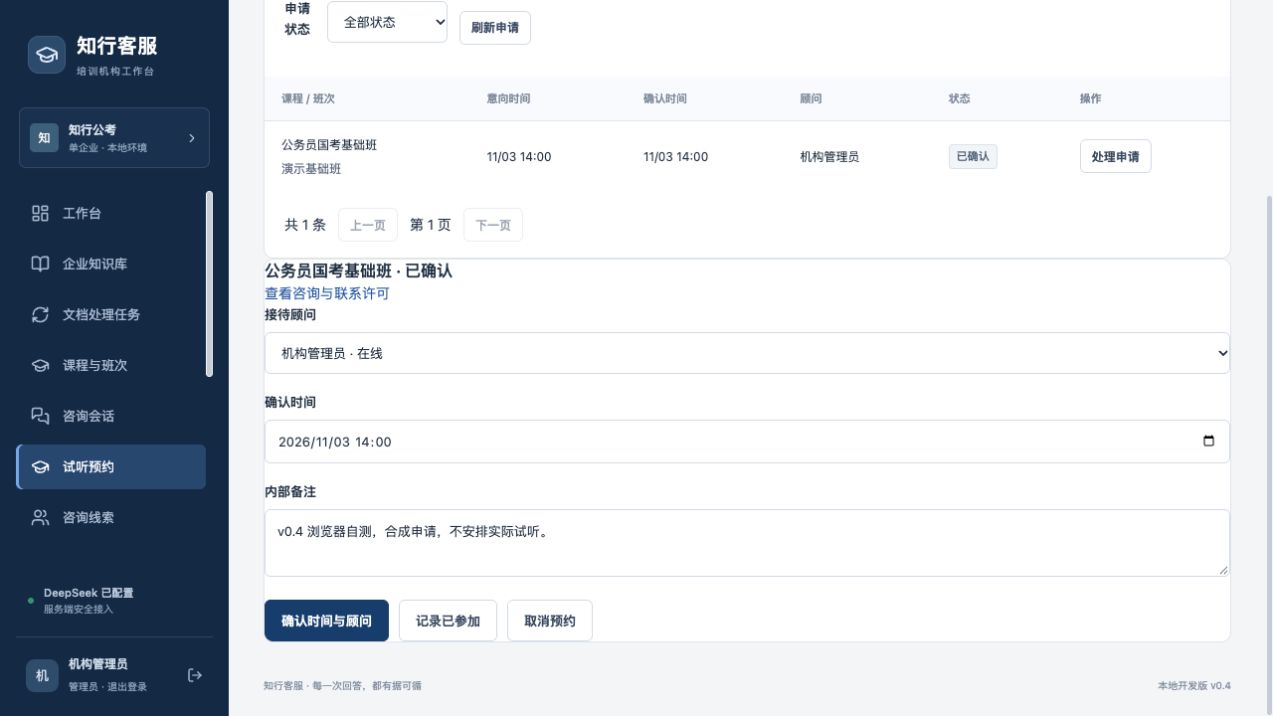
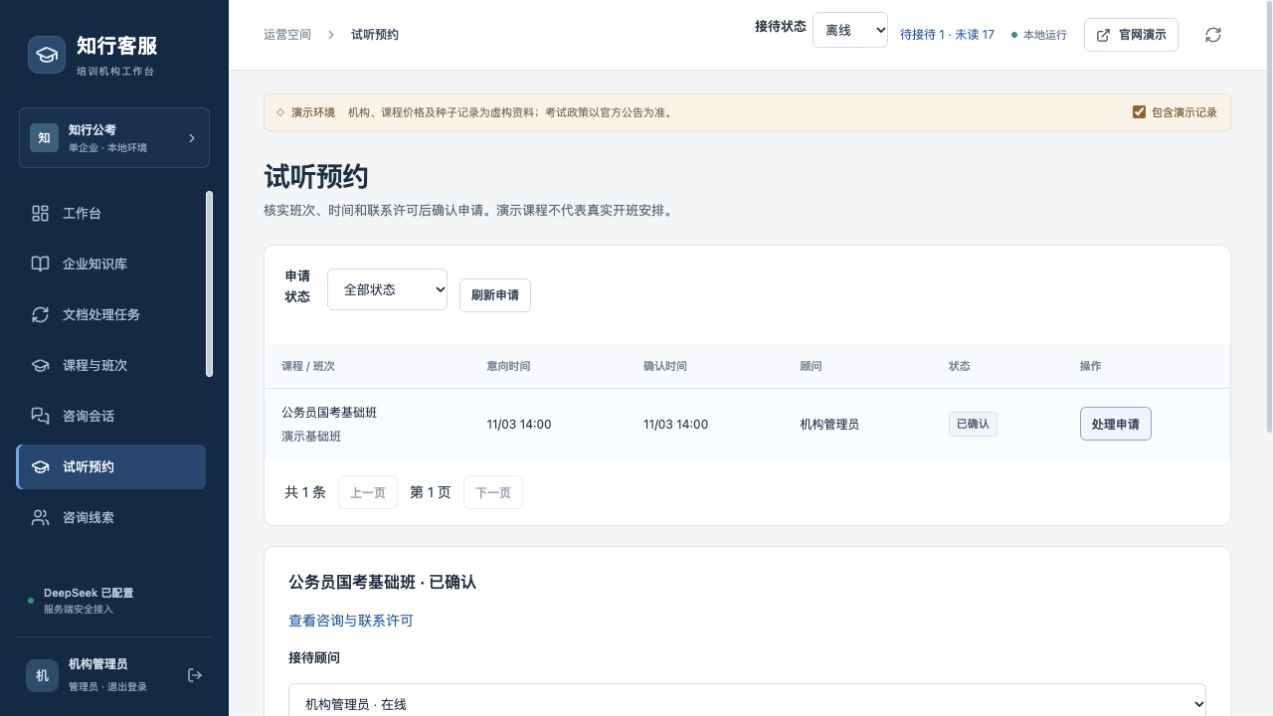
fix: preserve reception scope and validate trial and index recovery races

diff --git a/backend/tests/test_v04_review.py b/backend/tests/test_v04_review.py
@@ -1,0 +1,95 @@
+"""Regressions from the single independent v0.4 review."""
+import uuid
+from datetime import timedelta
+from sqlalchemy import select
+from app.db import SessionLocal
+from app.models import Conversation, Message, Document, Chunk, DocumentJob, now
+from test_permissions import employee
+
+def session(admin):
+    c=admin.post('/api/widget/sessions',json={}).json()
+    return c,{'Authorization':'Bearer '+c['token']}
+
+def contact(admin,c,headers):
+    return admin.post(f'/api/widget/sessions/{c["id"]}/contact',headers=headers,json={'name':'评审合成访客','contact':'review-v04@example.invalid','consent':True})
+
+def test_anonymous_advisor_keeps_scope_after_first_contact_without_overriding_existing_owner(admin):
+    person,advisor=employee(admin,'advisor');other,other_client=employee(admin,'advisor')
+    c,headers=session(admin);path='/api/admin/conversations/'+c['id']
+    assert admin.post(path+'/takeover').status_code==200
+    assert admin.post(path+'/transfer',json={'assigned_to_id':person['id']}).status_code==200
+    assert advisor.get(path).status_code==200
+    lead=contact(admin,c,headers).json()
+    result=advisor.get(path)
+    assert result.status_code==200,result.text
+    assert result.json()['lead']['owner_id']==person['id']
+    assert advisor.post(path+'/reply',json={'content':'留资后继续接待'}).status_code==200
+    assert other_client.get(path).status_code==404
+    assert admin.patch('/api/admin/leads/'+lead['id'],json={'owner_id':other['id']}).status_code==200
+    assert contact(admin,c,headers).status_code==200
+    assert admin.get('/api/admin/leads/'+lead['id']).json()['owner_id']==other['id']
+    assert advisor.get(path).status_code==404
+
+def test_chat_refreshes_status_after_authenticated_read_before_lock(admin,monkeypatch):
+    import app.chat as chat
+    original=chat.visitor;c,headers=session(admin);uid=admin.get('/api/auth/me').json()['id']
+    def takeover_between_reads(request,sid,db):
+        conv=original(request,sid,db)
+        with SessionLocal() as other:
+            current=other.get(Conversation,sid);current.status='human';current.assigned_to_id=uid;other.commit()
+        return conv
+    monkeypatch.setattr(chat,'visitor',takeover_between_reads)
+    r=admin.post(f'/api/widget/sessions/{c["id"]}/messages',headers=headers,json={'content':'请转人工','client_id':uuid.uuid4().hex})
+    assert r.status_code==200
+    with SessionLocal() as db:
+        conv=db.get(Conversation,c['id']);assert conv.status=='human'
+        assert conv.assigned_to_id==uid
+        assert not db.scalar(select(Message.id).where(Message.conversation_id==c['id'],Message.role=='assistant'))
+
+def test_ended_batches_are_hidden_and_rechecked_at_confirmation(admin):
+    course=admin.post('/api/admin/courses',json={'name':'评审试听课程','exam_type':'国考','hours':24}).json()
+    b=admin.post('/api/admin/courses/'+course['id']+'/batches',json={'name':'评审批次','sale_status':'open','ends_at':(now()+timedelta(days=10)).isoformat()}).json()
+    c,headers=session(admin);assert contact(admin,c,headers).status_code==200
+    payload={'batch_id':b['id'],'requested_at':(now()+timedelta(days=1)).isoformat(),'client_id':uuid.uuid4().hex}
+    trial=admin.post(f'/api/widget/sessions/{c["id"]}/trials',headers=headers,json=payload).json()
+    assert 'id' in trial,trial
+    assert admin.patch('/api/admin/batches/'+b['id'],json={'expected_version':b['version'],'ends_at':(now()-timedelta(days=1)).isoformat()}).status_code==200
+    assert b['id'] not in [x['id'] for x in admin.get('/api/widget/trial-batches').json()]
+    assert admin.post(f'/api/widget/sessions/{c["id"]}/trials',headers=headers,json={**payload,'client_id':uuid.uuid4().hex}).status_code==422
+    uid=admin.get('/api/auth/me').json()['id']
+    assert admin.patch('/api/admin/trials/'+trial['id'],json={'version':trial['version'],'status':'confirmed','advisor_id':uid,'scheduled_at':payload['requested_at']}).status_code==409
+
+def test_backfill_schedules_missing_seed_vectors_once_and_respects_failed_limit(admin,monkeypatch):
+    from app.jobs import backfill_index_jobs
+    from app.worker import run_one
+    from app.config import settings
+    import app.knowledge as k
+    import app.main as main
+    from fastapi.testclient import TestClient
+    import numpy as np
+    class Model:
+        def embed(self,texts):return [np.array([1.0]+[0.0]*511) for _ in texts]
+    monkeypatch.setattr(settings(),'embedding_enabled',True);monkeypatch.setattr(k,'_model',Model())
+    monkeypatch.setattr(main,'warm_embeddings',lambda:None)
+    with SessionLocal() as db:
+        published=Document(title='种子缺失向量',content='种子资料',status='published',version=1)
+        draft=Document(title='不能为草稿补索引',content='草稿',status='draft',version=0)
+        archived=Document(title='不能为下架补索引',content='下架',status='archived',version=1)
+        db.add_all([published,draft,archived]);db.flush()
+        for d in (published,draft,archived):db.add(Chunk(document_id=d.id,text=d.content,terms='种子 资料',position=0))
+        db.commit()
+        with TestClient(main.app):pass # Exercise the real startup backfill, without downloads.
+        jobs=db.scalars(select(DocumentJob).where(DocumentJob.document_id.in_([published.id,draft.id,archived.id]))).all()
+        assert len(jobs)==1 and jobs[0].document_id==published.id
+        jid=jobs[0].id
+        backfill_index_jobs(db);db.commit()
+        assert len(db.scalars(select(DocumentJob).where(DocumentJob.document_id==published.id)).all())==1
+    assert run_one(jid)
+    with SessionLocal() as db:
+        assert db.scalar(select(Chunk).where(Chunk.document_id==published.id)).embedding is not None
+        backfill_index_jobs(db);db.commit()
+        assert len(db.scalars(select(DocumentJob).where(DocumentJob.document_id==published.id)).all())==1
+        chunk=db.scalar(select(Chunk).where(Chunk.document_id==published.id));chunk.embedding=None
+        j=db.get(DocumentJob,jid);j.status='failed';j.attempts=3;db.commit()
+        backfill_index_jobs(db);db.commit()
+        assert len(db.scalars(select(DocumentJob).where(DocumentJob.document_id==published.id)).all())==1

diff --git a/scripts/verify_v04.py b/scripts/verify_v04.py
@@ -1,5 +1,5 @@
 """Real PostgreSQL regression. Operates ONLY on the disposable restored v0.4 rehearsal DB."""
-import os, uuid, json, threading
+import os, uuid, json, threading, time
 from datetime import timedelta
 from concurrent.futures import ThreadPoolExecutor
 os.environ['DATABASE_URL']=os.environ['DATABASE_URL'].rsplit('/',1)[0]+'/zhixing_v04_rehearsal'
@@ -41,6 +41,19 @@ with TestClient(app,headers={'Origin':os.environ['PUBLIC_ORIGIN']}) as admin:
     assert claims==[200,409],claims
     detail=ok(admin.get('/api/admin/conversations/'+sid))
     assert detail['assigned_to_id'] in [p['id'] for p,_ in people]
+    import app.chat as chat
+    stale_session=ok(admin.post('/api/widget/sessions',json={}))
+    visitor_original=chat.visitor
+    def takeover_after_initial_read(request,session_id,db):
+        conv=visitor_original(request,session_id,db)
+        if session_id==stale_session['id']:ok(people[0][1].post('/api/admin/conversations/'+session_id+'/takeover'))
+        return conv
+    chat.visitor=takeover_after_initial_read
+    try:
+        response=admin.post('/api/widget/sessions/'+stale_session['id']+'/messages',headers={'Authorization':'Bearer '+stale_session['token']},json={'content':'请转人工','client_id':uuid.uuid4().hex})
+        assert response.status_code==200
+        assert ok(admin.get('/api/admin/conversations/'+stale_session['id']))['status']=='human'
+    finally:chat.visitor=visitor_original
     ok(admin.post(f'/api/widget/sessions/{sid}/contact',headers=headers,json={'name':'v0.4并发测试','contact':'pg-v04@example.invalid','consent':True}))
     with SessionLocal() as db:batch=db.scalar(select(CourseBatch).where(CourseBatch.sale_status=='open'));bid=batch.id
     trial=ok(admin.post(f'/api/widget/sessions/{sid}/trials',headers=headers,json={'batch_id':bid,'requested_at':(now()+timedelta(days=7)).isoformat(),'client_id':uuid.uuid4().hex}))
@@ -49,6 +62,23 @@ with TestClient(app,headers={'Origin':os.environ['PUBLIC_ORIGIN']}) as admin:
     def confirm(i):barrier.wait();return people[i][1].patch('/api/admin/trials/'+trial['id'],json=body).status_code
     with ThreadPoolExecutor(max_workers=2) as pool:confirmations=sorted(pool.map(confirm,range(2)))
     assert confirmations==[200,409],confirmations
+    # Confirmation must reread a concurrently paused batch after its lock is released.
+    current=next(t for t in ok(admin.get('/api/admin/trials'))['items'] if t['id']==trial['id'])
+    with SessionLocal() as blocker,ThreadPoolExecutor(max_workers=1) as pool:
+        b=blocker.scalar(select(CourseBatch).where(CourseBatch.id==bid).with_for_update())
+        b.sale_status='paused';blocker.flush()
+        future=pool.submit(lambda:people[0][1].patch('/api/admin/trials/'+trial['id'],json={**body,'version':current['version']}))
+        deadline=time.monotonic()+8;waiting=False
+        try:
+            while time.monotonic()<deadline:
+                with engine.connect() as conn:
+                    waiting=bool(conn.execute(text("SELECT 1 FROM pg_stat_activity WHERE datname=current_database() AND wait_event_type='Lock' AND query ILIKE '%course_batches%' AND pid<>pg_backend_pid()")).first())
+                if waiting:break
+                if future.done():break
+                time.sleep(.02)
+        finally:blocker.commit()
+        assert waiting,'Confirmation did not wait for current batch state'
+        assert future.result(timeout=8).status_code==409
     job=ok(admin.post('/api/admin/document-jobs/upload',files={'file':('concurrent.txt','并发解析只能生成一份草稿'.encode(),'text/plain')}))
     barrier=threading.Barrier(2)
     def take_job(i):
@@ -92,4 +122,4 @@ with TestClient(app,headers={'Origin':os.environ['PUBLIC_ORIGIN']}) as admin:
             assert [s['document_id'] for s in result]==[target.id],result
         finally:k._model=original
     migrate_schema(engine)
-    print(json.dumps({'status':'passed','preserved_rows':before,'concurrent_takeover':claims,'concurrent_confirmation':confirmations,'exclusive_job_claims':1,'capacity_chunks':5100,'checks':['additive-repeat-migration','human-claim-lock','trial-version-lock','skip-locked-exclusive-claim','expired-lease-recovery','stale-worker-fencing','postgres-gin-search-beyond-5000','tenant-public-filters','pgvector-sql-distance']},ensure_ascii=False))
+    print(json.dumps({'status':'passed','preserved_rows':before,'concurrent_takeover':claims,'concurrent_confirmation':confirmations,'exclusive_job_claims':1,'capacity_chunks':5100,'checks':['additive-repeat-migration','human-claim-lock','post-lock-state-refresh','trial-version-lock','confirmation-vs-pause-lock','skip-locked-exclusive-claim','expired-lease-recovery','stale-worker-fencing','postgres-gin-search-beyond-5000','tenant-public-filters','pgvector-sql-distance']},ensure_ascii=False))

diff --git a/backend/app/reception.py b/backend/app/reception.py
@@ -91,6 +91,14 @@ def trial_data(db,t,public=False):
     if not public:result['note']=t.note
     return result
 
+def locked_batch(db,bid,tenant):
+    initial=db.scalar(select(CourseBatch).where(CourseBatch.id==bid,CourseBatch.tenant_id==tenant))
+    if not initial:return None,None
+    # Course then batch is the shared ordering; reread latest values after waiting on either.
+    course=db.scalar(select(Course).where(Course.id==initial.course_id,Course.tenant_id==tenant).with_for_update().execution_options(populate_existing=True))
+    batch=db.scalar(select(CourseBatch).where(CourseBatch.id==bid,CourseBatch.tenant_id==tenant).with_for_update().execution_options(populate_existing=True))
+    return batch,course
+
 class TrialInput(BaseModel):
     batch_id:str=Field(max_length=36)
     requested_at:datetime
@@ -98,7 +106,7 @@ class TrialInput(BaseModel):
 
 @router.get('/widget/trial-batches')
 def public_batches(db:Session=Depends(get_db)):
-    return [{'id':b.id,'course_name':c.name,'name':b.name,'mode':b.mode,'location':b.location,'schedule':b.schedule,'is_demo':c.is_demo} for b,c in db.execute(select(CourseBatch,Course).join(Course,CourseBatch.course_id==Course.id).where(Course.tenant_id=='zhixing-demo',Course.status=='active',CourseBatch.sale_status=='open'))]
+    return [{'id':b.id,'course_name':c.name,'name':b.name,'mode':b.mode,'location':b.location,'schedule':b.schedule,'is_demo':c.is_demo} for b,c in db.execute(select(CourseBatch,Course).join(Course,CourseBatch.course_id==Course.id).where(Course.tenant_id=='zhixing-demo',CourseBatch.tenant_id==Course.tenant_id,Course.status=='active',CourseBatch.sale_status=='open',or_(CourseBatch.ends_at.is_(None),CourseBatch.ends_at>=now())))]
 
 @router.get('/widget/sessions/{sid}/trials')
 def visitor_trials(sid:str,request:Request,db:Session=Depends(get_db)):
@@ -115,9 +123,10 @@ def create_trial(sid:str,data:TrialInput,request:Request,db:Session=Depends(get_
     lead=db.scalar(select(Lead).where(Lead.conversation_id==sid,Lead.contact_allowed.is_(True)))
     if not lead:raise HTTPException(422,'请先自愿留下本次试听的联系方式并同意联系')
     if not now()<aware(data.requested_at)<now()+timedelta(days=180):raise HTTPException(422,'请选择未来 180 天内的意向时间')
-    b=db.scalar(select(CourseBatch).where(CourseBatch.id==data.batch_id,CourseBatch.tenant_id==conv.tenant_id).with_for_update())
-    c=db.get(Course,b.course_id) if b else None
-    if not c or c.status!='active' or b.sale_status!='open':raise HTTPException(422,'该班次当前不接受试听申请')
+    from .catalog import batch_available
+    b,c=locked_batch(db,data.batch_id,conv.tenant_id)
+    if not batch_available(b,c):raise HTTPException(422,'该班次当前不接受试听申请')
+    if b.ends_at and aware(data.requested_at)>aware(b.ends_at):raise HTTPException(422,'意向试听时间不能晚于班次结束时间')
     t=Trial(tenant_id=conv.tenant_id,conversation_id=sid,batch_id=b.id,requested_at=data.requested_at,client_id=data.client_id)
     db.add(t);db.commit();return trial_data(db,t,True)
 
@@ -154,8 +163,10 @@ def patch_trial(tid:str,data:TrialPatch,user:Admin=Depends(require('conversation
         if not a or a.tenant_id!=user.tenant_id or not has_permission(a,'conversations.handle'):raise HTTPException(422,'请选择有效顾问或客服')
         if a.role=='advisor' and not db.scalar(scope_conversations(select(Conversation.id).where(Conversation.id==t.conversation_id),a)):raise HTTPException(422,'请先将线索分配给该顾问')
         if not scheduled or aware(scheduled)<=now():raise HTTPException(422,'请填写未来的确认时间')
-        b=db.get(CourseBatch,t.batch_id);c=db.get(Course,b.course_id)
-        if c.status!='active' or b.sale_status!='open':raise HTTPException(409,'班次已停止接收申请')
+        from .catalog import batch_available
+        b,c=locked_batch(db,t.batch_id,user.tenant_id)
+        if not batch_available(b,c):raise HTTPException(409,'班次已结束或停止接收申请')
+        if b.ends_at and aware(scheduled)>aware(b.ends_at):raise HTTPException(422,'确认时间不能晚于班次结束时间')
         t.advisor_id=a.id;t.scheduled_at=scheduled
     t.status=data.status;t.note=data.note;t.version+=1
     from .admin import record

diff --git a/backend/app/jobs.py b/backend/app/jobs.py
@@ -4,10 +4,10 @@ import uuid
 from datetime import timedelta
 from pathlib import Path
 from fastapi import APIRouter, Depends, File, HTTPException, UploadFile
-from sqlalchemy import select, or_, and_
+from sqlalchemy import select, or_, and_, func
 from sqlalchemy.orm import Session
 from .db import get_db
-from .models import Admin, Document, DocumentJob, now
+from .models import Admin, Document, DocumentJob, Chunk, now
 from .permissions import require, scoped_object
 from .querying import Paging, paginate
 
@@ -18,10 +18,23 @@ def job_data(j):
     return {k:(getattr(j,k).isoformat() if k.endswith('_at') and getattr(j,k) else getattr(j,k)) for k in ('id','kind','status','document_id','progress','stage','attempts','error','created_at','updated_at')}
 
 def enqueue_index(db,doc):
-    existing=db.scalar(select(DocumentJob).where(DocumentJob.document_id==doc.id,DocumentJob.kind=='index',DocumentJob.status.in_(['queued','running'])))
-    if existing and existing.payload.get('version')==doc.version:return existing
+    db.flush()
+    doc=db.scalar(select(Document).where(Document.id==doc.id,Document.tenant_id==doc.tenant_id).with_for_update().execution_options(populate_existing=True))
+    if doc.status!='published':raise HTTPException(409,'仅已发布资料可建立向量索引')
+    existing=db.scalar(select(DocumentJob).where(DocumentJob.document_id==doc.id,DocumentJob.kind=='index',DocumentJob.payload['version'].as_integer()==doc.version,DocumentJob.status.in_(['queued','running'])))
+    if existing:return existing
     j=DocumentJob(tenant_id=doc.tenant_id,document_id=doc.id,kind='index',payload={'version':doc.version})
     db.add(j);db.flush();return j
+
+def backfill_index_jobs(db):
+    null_vector=Chunk.embedding.is_(None)
+    if db.bind.dialect.name=='sqlite':null_vector=or_(null_vector,func.json_type(Chunk.embedding)=='null')
+    missing=select(Chunk.id).where(Chunk.document_id==Document.id,null_vector).exists()
+    docs=db.scalars(select(Document).where(Document.status=='published',missing).order_by(Document.id).with_for_update(skip_locked=True)).all()
+    for doc in docs:
+        # Completed/failed attempts retain their history and cap across restarts.
+        previous=db.scalar(select(DocumentJob.id).where(DocumentJob.document_id==doc.id,DocumentJob.kind=='index',DocumentJob.payload['version'].as_integer()==doc.version))
+        if not previous:enqueue_index(db,doc)
 
 def claim(db,worker,job_id=None):
     eligible=or_(DocumentJob.status=='queued',and_(DocumentJob.status=='running',DocumentJob.lease_until<now()))

diff --git a/backend/app/chat.py b/backend/app/chat.py
@@ -107,7 +107,7 @@ class ChatInput(BaseModel):
 def chat(session_id: str, data: ChatInput, request: Request, db: Session = Depends(get_db)):
     conv=visitor(request,session_id,db)
     # Serialize creation of pending messages across simultaneous HTTP requests.
-    conv=db.scalar(select(Conversation).where(Conversation.id==conv.id).with_for_update())
+    conv=db.scalar(select(Conversation).where(Conversation.id==conv.id).with_for_update().execution_options(populate_existing=True))
     if not data.content.strip(): raise HTTPException(422,'请输入问题')
     limit('chat:'+conv.id,20)
     existing=db.scalar(select(Message).where(Message.conversation_id==conv.id,Message.client_id==data.client_id))
@@ -241,7 +241,9 @@ class ContactInput(BaseModel):
 @router.post('/sessions/{session_id}/contact')
 def contact(session_id: str, data: ContactInput, request: Request, db: Session = Depends(get_db)):
     conv=visitor(request,session_id,db)
-    conv=db.scalar(select(Conversation).where(Conversation.id==conv.id).with_for_update())
+    # Match CRM lock order so staff/ownership changes cannot race first-contact attribution.
+    db.scalar(select(Company).where(Company.id==conv.tenant_id).with_for_update())
+    conv=db.scalar(select(Conversation).where(Conversation.id==conv.id).with_for_update().execution_options(populate_existing=True))
     limit('contact:'+conv.id,6,300)
     value=data.contact.strip()
     if not re.fullmatch(r'(1[3-9]\d{9}|[^\s@]+@[^\s@]+\.[^\s@]+)',value):
@@ -251,6 +253,13 @@ def contact(session_id: str, data: ContactInput, request: Request, db: Session =
         lead=Lead(conversation_id=conv.id,name=data.name.strip() or '网站访客',contact=value,
                   consent_text=db.get(Company,TENANT).config['contact_notice'],is_demo=conv.is_demo,contact_allowed=True)
         db.add(lead)
+        # An explicitly transferred anonymous advisor conversation stays with that advisor.
+        # Existing leads always retain their independently managed CRM owner.
+        if conv.assigned_to_id:
+            from .models import Admin
+            assigned=db.get(Admin,conv.assigned_to_id)
+            if assigned and assigned.tenant_id==conv.tenant_id and assigned.is_active and assigned.role=='advisor':
+                lead.owner_id=assigned.id;lead.owner=assigned.name
     else:
         lead.name,lead.contact=data.name.strip() or '网站访客',value
         lead.contact_verified=False

diff --git a/backend/app/catalog.py b/backend/app/catalog.py
@@ -71,6 +71,9 @@ def check_batch(b):
     if b.mode in ('offline','hybrid') and not b.location.strip():raise HTTPException(422,'线下或混合授课须填写上课地点')
     for text in (b.name,b.location,b.schedule):check_commercial_text(text)
 
+def batch_available(b,c):
+    return bool(c and b and c.tenant_id==b.tenant_id and c.status=='active' and b.sale_status=='open' and (not b.ends_at or aware(b.ends_at)>=aware(now())))
+
 def check_commercial_text(value):
     if has_amount(value):raise HTTPException(422,'价格和课时请填写专用字段，不要写入名称、说明或开班安排')
 
@@ -136,7 +139,7 @@ def public_source(db,c):
         if not visible:pieces.append('当前暂无已确认可报名班次，价格和开班时间需人工核实。')
         for b in visible:
             versions.append(b.id+':'+str(b.version))
-            open_now=b.sale_status=='open' and (not b.ends_at or aware(b.ends_at)>=aware(now()))
+            open_now=batch_available(b,c)
             label='可咨询报名' if open_now else {'paused':'停售','sold_out':'已满班','ended':'已结束'}.get(b.sale_status,'已结束')
             pieces.append(f'班次：{safe(b.name,"班次名称待校对")}；状态：{label}。')
             if not open_now:continue

diff --git a/backend/app/main.py b/backend/app/main.py
@@ -10,6 +10,7 @@ from .knowledge import warm_embeddings, retrieval_status
 from .encryption import migrate_contacts
 from . import admin, chat, staff, documents, catalog, students, reception, quality, jobs
 from .migrations import migrate_schema
+from .config import settings
 
 @asynccontextmanager
 async def lifespan(app):
@@ -21,6 +22,7 @@ async def lifespan(app):
         catalog.seed_catalog(db)
         chat.backfill_analysis(db)
         students.backfill_crm(db)
+        if settings().embedding_enabled:jobs.backfill_index_jobs(db)
         db.commit()
     thread=threading.Thread(target=warm_embeddings,daemon=True)
     thread.start()

diff --git a/docs/v0.4验收记录.md b/docs/v0.4验收记录.md
@@ -10,19 +10,31 @@
 
 ## 自测证据
 
-- 后端：`docker compose run --rm --no-deps -v "$PWD/backend:/app" backend pytest -q`，97 passed、8 subtests passed；含原 v0.1–v0.3 回归。新增行为测试先观察失败再实现。
+- 后端：`docker compose run --rm --no-deps -v "$PWD/backend:/app" backend pytest -q`，最终 101 passed、8 subtests passed；含原 v0.1–v0.3 回归。新增行为测试先观察失败再实现。
 - 前端：Node 22，`npm test` 4/4 通过；`npm run build` TypeScript 和 Vite 构建通过。现有 bundle 大于 500 KB 的提示保留，不阻断构建。
 - PostgreSQL：从迁移前备份还原到独立 `zhixing_v04_rehearsal`，运行 `scripts/verify_v04.py`。原 20 文档、18 会话、16 线索、2 学员、9 课程、9 班次均保留。重复迁移通过。
 - 真实 PostgreSQL 并发：两个客服同时接管返回 `[200,409]`，两个员工同时确认同一预约返回 `[200,409]`；两个消费者只一人取得同一任务；旧租约不能续期或覆盖已完成任务，过期任务由新租约恢复。
+- 评审后的 PostgreSQL 追加检查：访客鉴权初读后完成一次人工接管，锁后重新读取状态，人工状态不被覆盖；确认申请等待班次行锁期间另一个事务暂停班次，锁释放后确认正确返回 409。
 - 容量与过滤：5100 个干扰切片之后仍命中正确资料；GIN 索引存在；实际 pgvector SQL 距离召回通过；内部资料和其他租户不会出现在公众结果中。SQLite 回归同时覆盖过期资料过滤。
 - 浏览器：未知问题返回无依据提示且可评价；合成访客自愿留资、选择班次/时间提交待确认申请，后台确认顾问后访客看到确认时间；转人工、后台接管、人工回复同步成功；生成 17 条评测样本，未标注时不显示回答准确率。
 - 浏览器上传合成 TXT 后，独立 worker 生成草稿，任务显示成功、100%、1/3 次；“查看资料”打开该草稿，未自动发布。
+- 真实 DeepSeek 单条公开课程冒烟：`deepseek-flash` 回答国考课程问题，按当前课程来源引用并说明演示设定，停售课程未报价；已完成，516 Token、1105 ms。用量页面显示 1 次调用和已知 Token；尚未配置模型单价，因此该笔显示“无法估价”，未伪报免费。该单条检查不代替完整人工回答质量验收。
 - 数据保护：迁移前备份 `/private/tmp/zhixing-before-v04.dump`，权限 600；现有 DeepSeek Key 与管理员密码保持本地配置，未记录到日志或截图。浏览器合成会话及上传草稿已标记演示。
 
 截图：[人工接待](screenshots/v04/reception.png)、[试听确认](screenshots/v04/trial-confirmed.png)、[异步解析完成](screenshots/v04/document-job.png)。
+
+## 独立评审与修复
+
+一次独立只读评审提出 4 个重要问题，无严重或次要遗留项。四项均先补失败回归测试再集中修复：匿名会话首次留资后继承当前有效顾问归属，已有线索不改负责人；访客会话加锁后刷新状态；结束或暂停的班次不能展示、申请、确认试听，确认读取受锁保护的最新课程/班次；启动时为已发布缺失向量资料补持久任务，同版本不重复排队，失败次数上限跨重启保留。完整后端回归 101 项和 8 子测试通过；未重复派评审。
+
+额外截图：[反馈处理](screenshots/v04/quality-feedback.png)、[真实模型冒烟](screenshots/v04/deepseek-smoke.png)、[用量记录](screenshots/v04/usage.png)。
+
+收尾：后台、worker、网页、数据库和 Redis 均在本地运行，API v0.4.0 健康、中文向量模型 ready。合成试听验证后已取消，两条合成会话经正常后台接口结束；合成上传资料留作演示草稿。独立 PostgreSQL 演练库已删除，迁移前私有备份保留。代码保留当前本地开发分支。[合成预约收尾截图](screenshots/v04/trial-cancelled.png)。
 
 ## 实现取舍与实际边界
 
 发布同步原子更新文字切片、后台构建向量，保留原审核发布接口和即时撤回语义；代价是向量任务完成前语义召回较弱。预算采用管理员配置单价与站内告警，避免假定供应商价格；费用不完整时明确显示未知部分，机构仍需配置单价并核对账单。自动评测不冒充模型准确率，机构仍需对真实 DeepSeek 回答完成人工标注与验收。
 
-本轮未作付费模型批量评测或真实对外通知，也未做十万切片/大规模并发容量验收、公网部署或生产合规验收。以上是本地功能与并发正确性证据。
+本轮只作上述单条真实模型冒烟，未作付费模型批量评测或真实对外通知，也未做十万切片/大规模并发容量验收、公网部署或生产合规验收。以上是本地功能与并发正确性证据。
+
+预算达到阈值后继续服务，可能继续产生费用；没有自动停服。真实批量回答质量仍由机构用实际业务样本验收。模型错误映射参考 [DeepSeek 官方错误码](https://api-docs.deepseek.com/quick_start/error_codes/)。

diff --git a/docs/开发进度.md b/docs/开发进度.md
@@ -1,5 +1,11 @@
 # 开发记录
 
+## v0.4 · 编号 7–9（2026-10-27 完成）
+
+完成在线心跳、排队/转交与独立未读、试听申请和状态管理、反馈知识缺口、17 条评测样本及人工标注、DeepSeek 错误分类/用量/估算预算、PostgreSQL 数据库侧检索和持久解析/向量任务及 worker。101 项后端测试、8 个子测试、4 项前端测试与 TS/Vite/Docker 构建通过；真实 PostgreSQL 并发和 5100 干扰切片验证通过。一次独立评审的 4 个重要问题均以先失败后通过的回归修复。浏览器完整接待/试听/反馈/文件解析流程及单条真实 DeepSeek 调用成功（516 Token）；合成数据已标记演示、会话结束、试听取消。API v0.4.0 健康，5 个服务运行；演练库清理，迁移前备份与本地密钥保留。
+
+最新说明见 [v0.4 验收记录](v0.4验收记录.md)。文字索引即时原子切换、向量后台补齐；预算仅估算与站内告警，价格需机构自行配置；真实回答质量需机构人工验收。十万切片容量、公网部署和生产合规仍属后续范围。以下为历史记录。
+
 ## v0.3 · 编号 4–6（2026-10-27 完成）
 
 课程班次、独立学员与多次咨询关联、人工核实合并、跟进待办和服务端分页筛选导出统计已完成。上次额度中断时最终修复镜像尚未部署，本次恢复后已完成 PostgreSQL 锁竞争与长审计原因验证、浏览器错误恢复验证及最终容器更新。87 项后端测试、8 个子测试、4 项前端测试通过；一次独立审阅的六类重要问题已修复。最新边界和操作说明见 [v0.3 验收记录](v0.3验收记录.md)，下文为首版及 v0.2 历史记录。
